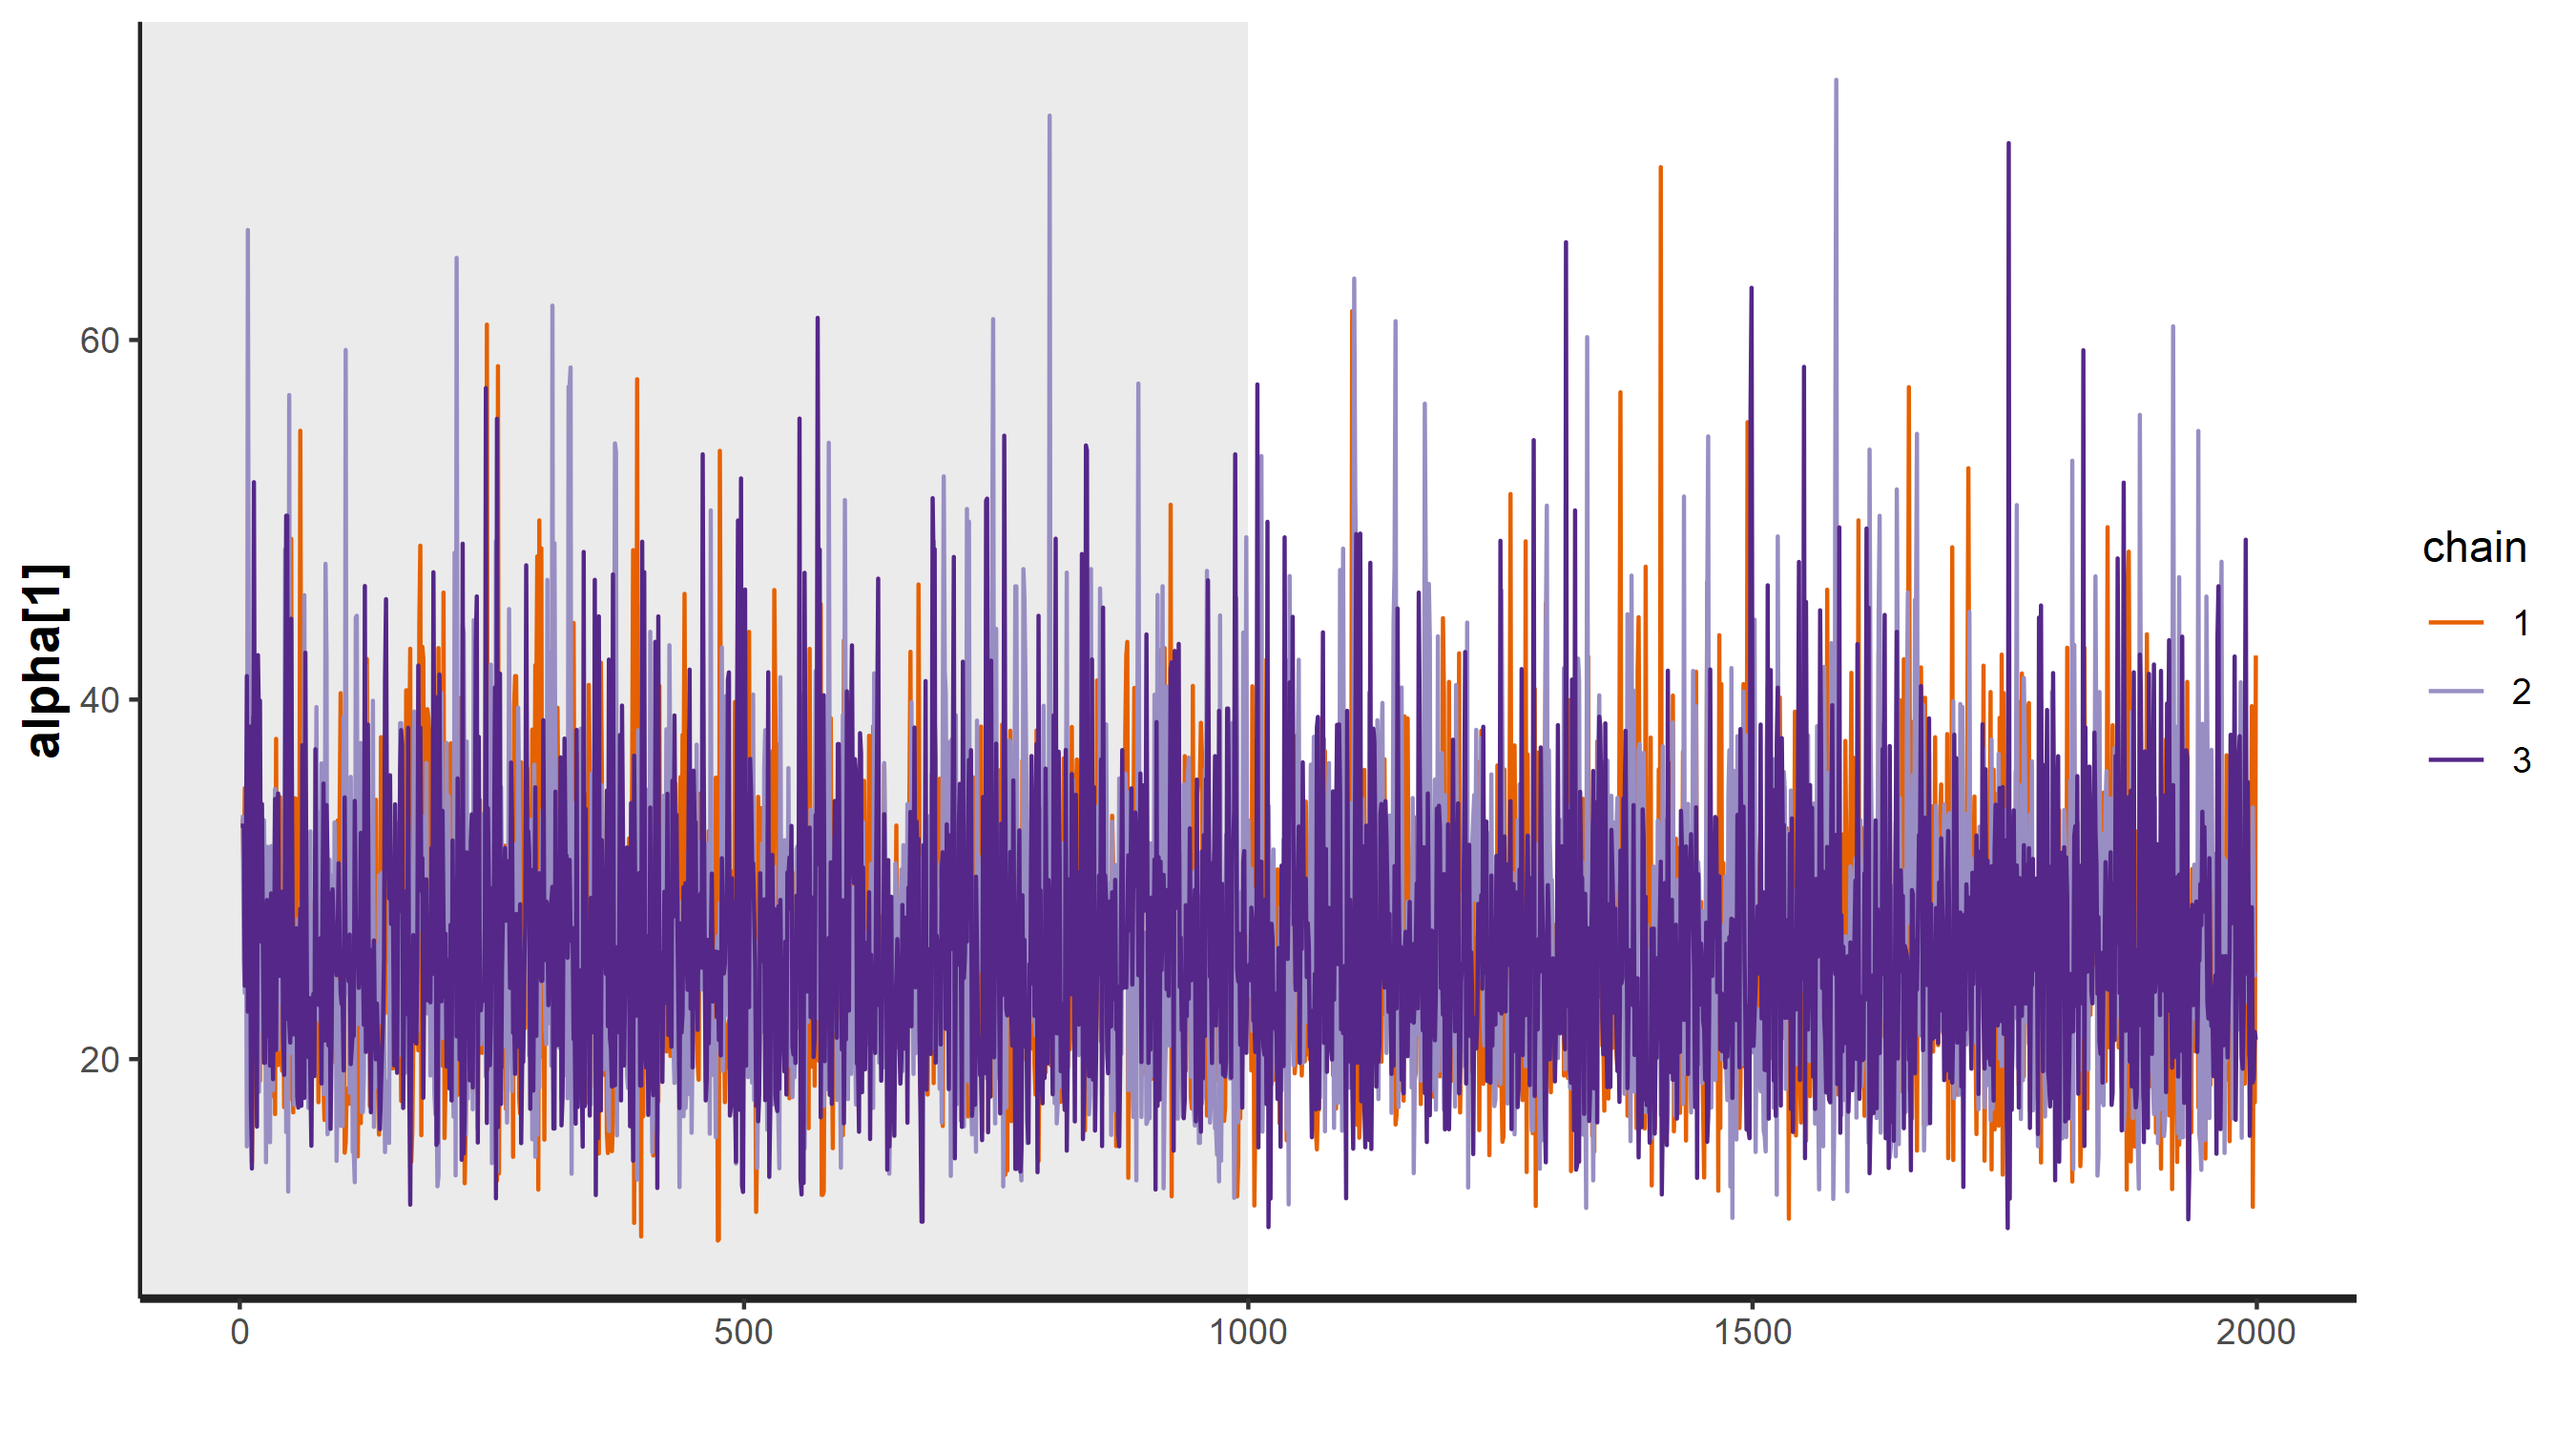
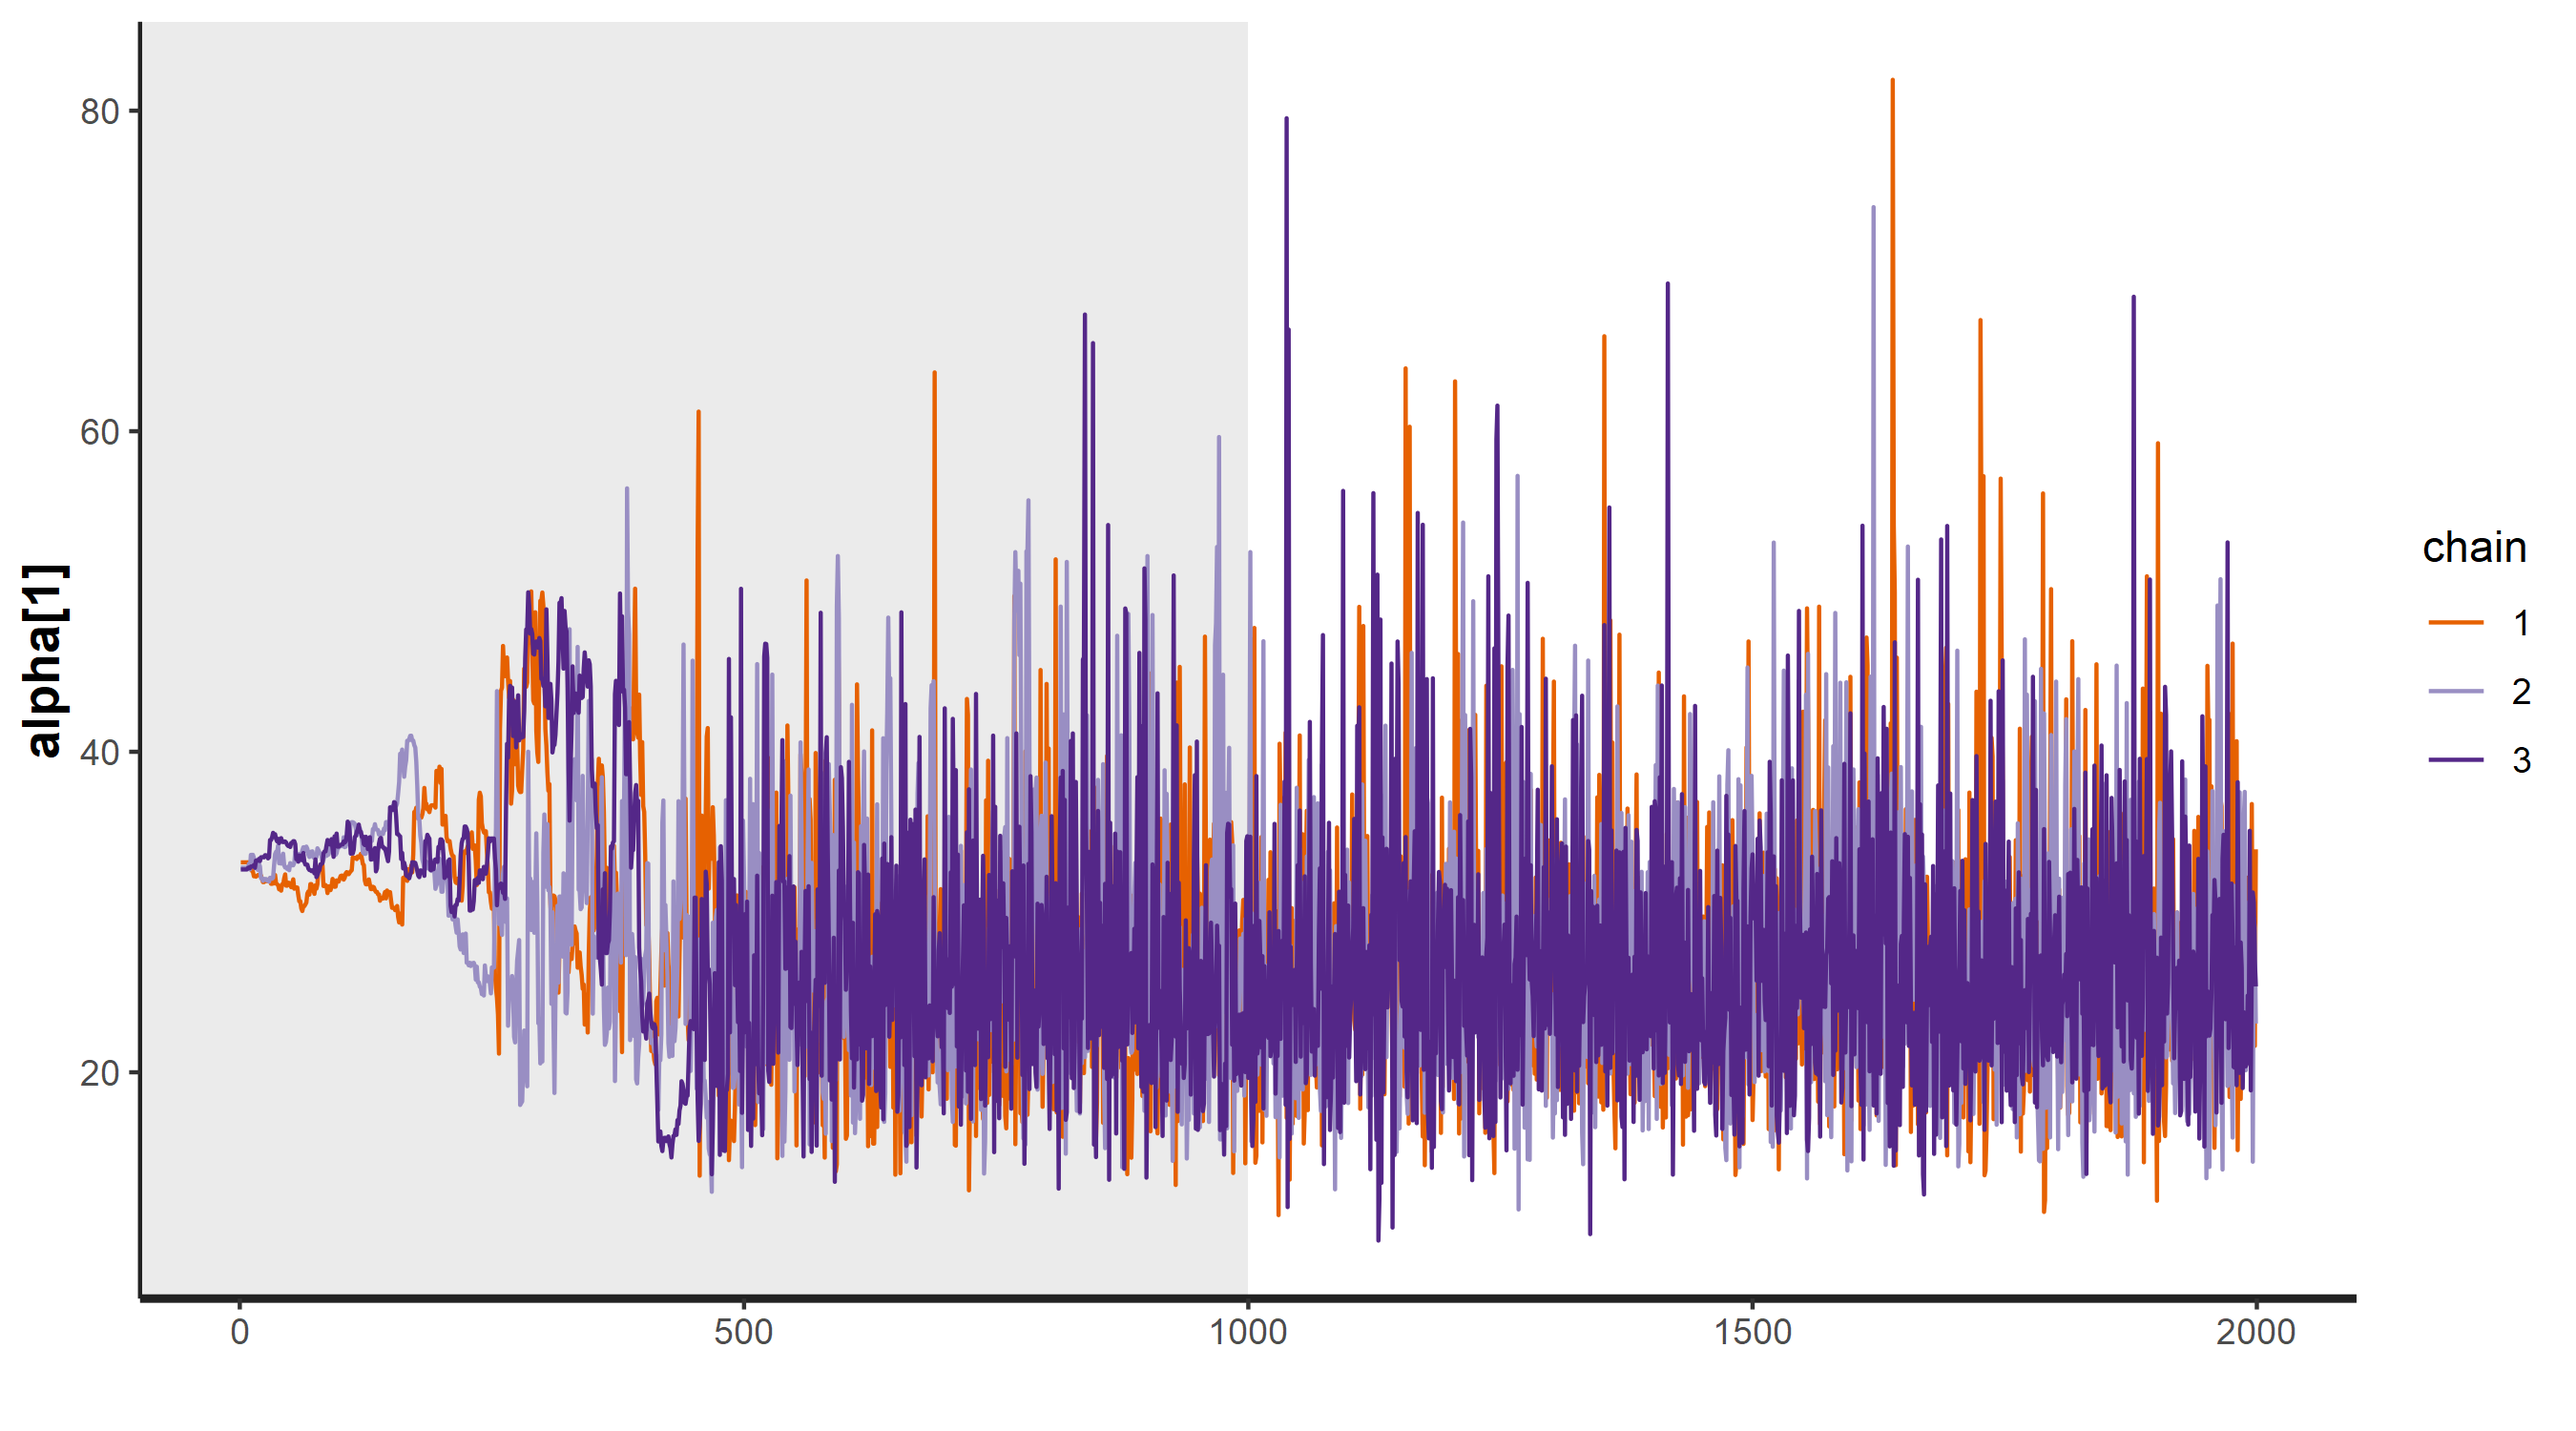
add min_age parameter

diff --git a/README.md b/README.md
@@ -1,7 +1,7 @@
 hamstr: Hierarchical Accumulation Modelling with Stan and R.
 ================
 Andrew M. Dolman
-2021-06-20
+2021-07-14
 
 ------------------------------------------------------------------------
 
@@ -101,6 +101,9 @@ passed as arguments to the function.
 hamstr_fit_1 <- hamstr(depth = MSB2K_cal$depth,
                        obs_age = MSB2K_cal$age.14C.cal,
                        obs_err = MSB2K_cal$age.14C.cal.se)
+#> Warning: There were 2623 transitions after warmup that exceeded the maximum treedepth. Increase max_treedepth above 10. See
+#> http://mc-stan.org/misc/warnings.html#maximum-treedepth-exceeded
+#> Warning: Examine the pairs() plot to diagnose sampling problems
 ```
 
 The default plotting method shows the fitted age models together with
@@ -114,6 +117,7 @@ along the top of the age-model plot.
 
 ``` r
 plot(hamstr_fit_1)
+#> Joining, by = "idx"
 #> Joining, by = "alpha_idx"
 ```
 
@@ -127,6 +131,7 @@ Additionally, plotting of the diagnostic plots can be switched off.
 
 ``` r
 plot(hamstr_fit_1, summarise = FALSE, plot_diagnostics = FALSE)
+#> Joining, by = "idx"
 ```
 
 ![](readme_files/figure-gfm/unnamed-chunk-9-1.png)<!-- -->
@@ -222,39 +227,41 @@ age model.
 
 ``` r
 predict(hamstr_fit_1)
-#> # A tibble: 243,000 x 3
+#> Joining, by = "idx"
+#> # A tibble: 120,000 x 3
 #>     iter depth   age
 #>    <int> <dbl> <dbl>
-#>  1     1  1.5  4550.
-#>  2     1  2.72 4556.
-#>  3     1  3.95 4564.
-#>  4     1  5.18 4574.
-#>  5     1  6.4  4586.
-#>  6     1  7.62 4598.
-#>  7     1  8.85 4619.
-#>  8     1 10.1  4654.
-#>  9     1 11.3  4675.
-#> 10     1 12.5  4704.
-#> # ... with 242,990 more rows
+#>  1     1   1.5 4541.
+#>  2     1   4.5 4576.
+#>  3     1   8.5 4627.
+#>  4     1  12.5 4724.
+#>  5     1  14.5 4756.
+#>  6     1  14.5 4756.
+#>  7     1  14.5 4756.
+#>  8     1  17.5 4887.
+#>  9     1  20.5 4994.
+#> 10     1  21.5 5011.
+#> # ... with 119,990 more rows
 ```
 
 `summary` returns the age model summarised over the realisations.
 
 ``` r
 summary(hamstr_fit_1)
+#> Joining, by = "idx"
 #> # A tibble: 81 x 13
 #>    depth   idx par     mean se_mean    sd `2.5%` `25%` `50%` `75%` `97.5%` n_eff
 #>    <dbl> <dbl> <chr>  <dbl>   <dbl> <dbl>  <dbl> <dbl> <dbl> <dbl>   <dbl> <dbl>
-#>  1  1.5      1 c_age~ 4507.   1.71   71.4  4354. 4465. 4512. 4557.   4631. 1737.
-#>  2  2.72     2 c_age~ 4524.   1.55   65.8  4381. 4483. 4529. 4569.   4641. 1799.
-#>  3  3.95     3 c_age~ 4541.   1.40   61.1  4413. 4503. 4545. 4583.   4651. 1900.
-#>  4  5.18     4 c_age~ 4558.   1.28   57.3  4438. 4522. 4561. 4597.   4664. 1996.
-#>  5  6.4      5 c_age~ 4575.   1.18   54.4  4461. 4540. 4578. 4611.   4678. 2107.
-#>  6  7.62     6 c_age~ 4592.   1.11   52.4  4482. 4558. 4595. 4627.   4694. 2219.
-#>  7  8.85     7 c_age~ 4610.   1.02   49.5  4508. 4578. 4612. 4642.   4706. 2373.
-#>  8 10.1      8 c_age~ 4628.   0.904  46.3  4535. 4598. 4630. 4659.   4719. 2626.
-#>  9 11.3      9 c_age~ 4647.   0.814  43.7  4559. 4618. 4648. 4675.   4734. 2879.
-#> 10 12.5     10 c_age~ 4665.   0.755  41.9  4583. 4638. 4666. 4693.   4748. 3073.
+#>  1  1.5      1 c_age~ 4507.   2.21   67.7  4355. 4466. 4512. 4553.   4628.  941.
+#>  2  2.72     2 c_age~ 4524.   2.01   62.2  4388. 4485. 4527. 4565.   4637.  956.
+#>  3  3.95     3 c_age~ 4541.   1.81   57.7  4419. 4506. 4543. 4579.   4648. 1019.
+#>  4  5.18     4 c_age~ 4558.   1.63   54.1  4444. 4524. 4559. 4595.   4660. 1101.
+#>  5  6.4      5 c_age~ 4575.   1.45   51.4  4471. 4542. 4577. 4610.   4673. 1255.
+#>  6  7.62     6 c_age~ 4592.   1.29   49.8  4489. 4560. 4593. 4626.   4687. 1483.
+#>  7  8.85     7 c_age~ 4610.   1.15   47.1  4513. 4578. 4610. 4642.   4699. 1676.
+#>  8 10.1      8 c_age~ 4628.   1.06   44.2  4538. 4599. 4627. 4658.   4711. 1758.
+#>  9 11.3      9 c_age~ 4646.   0.959  42.0  4562. 4618. 4645. 4675.   4727. 1922.
+#> 10 12.5     10 c_age~ 4664.   0.900  40.8  4582. 4636. 4664. 4692.   4744. 2059.
 #> # ... with 71 more rows, and 1 more variable: Rhat <dbl>
 ```
 
@@ -266,6 +273,7 @@ depths that are outside the modelled depths.
 
 ``` r
 age.mods.interp <- predict(hamstr_fit_1, depth = seq(0, 100, by = 1))
+#> Joining, by = "idx"
 ```
 
 These interpolated age models can summarised with the same function as
@@ -279,14 +287,14 @@ summary(age.mods.interp)
 #>    <dbl> <dbl> <dbl>  <dbl> <dbl> <dbl> <dbl>   <dbl>
 #>  1     0   NA   NA      NA    NA    NA    NA      NA 
 #>  2     1   NA   NA      NA    NA    NA    NA      NA 
-#>  3     2 4514.  68.9  4366. 4473. 4519. 4561.   4634.
-#>  4     3 4527.  64.6  4388. 4487. 4533. 4572.   4643.
-#>  5     4 4542.  60.9  4415. 4504. 4546. 4583.   4651.
-#>  6     5 4556.  57.8  4436. 4520. 4559. 4595.   4661.
-#>  7     6 4570.  55.2  4454. 4534. 4573. 4606.   4674.
-#>  8     7 4583.  53.2  4471. 4548. 4586. 4619.   4686.
-#>  9     8 4597.  51.4  4490. 4564. 4600. 4631.   4697.
-#> 10     9 4612.  49.1  4512. 4581. 4614. 4645.   4707.
+#>  3     2 4514.  65.3  4368. 4474. 4518. 4557.   4631.
+#>  4     3 4528.  61.1  4395. 4490. 4531. 4569.   4640.
+#>  5     4 4541.  57.6  4419. 4506. 4544. 4580.   4648.
+#>  6     5 4556.  54.5  4440. 4521. 4557. 4593.   4658.
+#>  7     6 4569.  52.1  4462. 4536. 4571. 4605.   4668.
+#>  8     7 4583.  50.4  4480. 4552. 4584. 4618.   4681.
+#>  9     8 4597.  48.9  4498. 4566. 4597. 4631.   4691.
+#> 10     9 4612.  46.7  4517. 4581. 4612. 4644.   4700.
 #> # ... with 91 more rows
 ```
 
@@ -307,6 +315,22 @@ plot(hamstr_fit_1, type = "acc_rates")
 
 ``` r
 summary(hamstr_fit_1, type = "acc_rates") 
+#> Joining, by = "idx"
+#> # A tibble: 160 x 12
+#>    depth c_depth_top c_depth_bottom acc_rate_unit   idx  mean    sd `2.5%` `25%`
+#>    <dbl>       <dbl>          <dbl> <chr>         <dbl> <dbl> <dbl>  <dbl> <dbl>
+#>  1  1.5         1.5            2.72 depth_per_ti~     1 117.  104.    27.7  56.4
+#>  2  2.72        2.72           3.95 depth_per_ti~     2 103.   85.4   29.1  56.1
+#>  3  3.95        3.95           5.18 depth_per_ti~     3 100.   75.6   29.2  55.1
+#>  4  5.18        5.18           6.4  depth_per_ti~     4  99.3  79.1   30.3  55.3
+#>  5  6.4         6.4            7.62 depth_per_ti~     5 100.   91.8   31.2  56.3
+#>  6  7.62        7.62           8.85 depth_per_ti~     6  85.7  45.4   33.0  56.9
+#>  7  8.85        8.85          10.1  depth_per_ti~     7  86.1  49.4   32.1  54.5
+#>  8 10.1        10.1           11.3  depth_per_ti~     8  86.8  52.0   31.3  53.9
+#>  9 11.3        11.3           12.5  depth_per_ti~     9  88.1  60.1   30.9  52.7
+#> 10 12.5        12.5           13.8  depth_per_ti~    10  88.4  57.3   30.6  53.5
+#> # ... with 150 more rows, and 3 more variables: 50% <dbl>, 75% <dbl>,
+#> #   97.5% <dbl>
 ```
 
 ### Diagnostic plots
